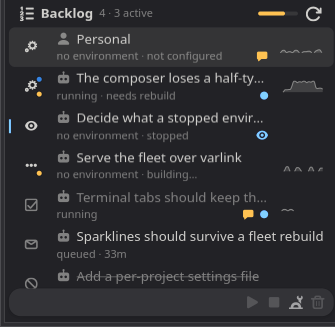
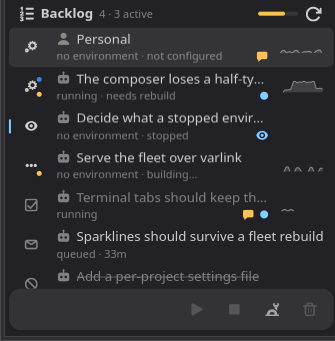
The intervention buttons are ordinary toolbar buttons, and the checkbox belongs to the slot
Three corrections from looking at it (David, 2026-09-09).

**Normal-sized buttons.** They were still wearing the header's
`backlog-new` class — 20px and no padding — which is right for a glyph
tucked into a header line and wrong for a toolbar meant to be pressed.
Square is kept, since four of them together are a toolbar and a row of
circles reads as four separate controls; the size is the platform's now.

**Hover on the slot, not the row.** Pointing anywhere in a row turned its
status glyph into a checkbox, so reading the list made the states flicker
away under the pointer. The target is the 26px slot the glyph sits in,
which is where the gesture was aimed anyway.

**So the resting state is the state.** With nothing checked and nothing
hovered, every row shows its stage glyph and whatever badges it carries.

I broke the CSS string doing this — an unescaped quote inside the one big
Rust literal the stylesheet lives in — and the compiler caught it, which
is the only reason it is worth mentioning: that literal will do it again.

diff --git a/crates/taste-app/src/backlog.rs b/crates/taste-app/src/backlog.rs
@@ -1179,7 +1179,12 @@ impl BacklogPanel {
             let row = intervention_bar.open_bar();
             row.set_halign(gtk::Align::End);
             for button in [&start_button, &stop_button, &rebuild_button, &delete_button] {
+                // Off with the header's styling: `circular` was its shape
+                // and `backlog-new` its 20px-and-no-padding size, which is
+                // right for a glyph tucked into a header line and wrong
+                // for a toolbar meant to be pressed.
                 button.remove_css_class("circular");
+                button.remove_css_class("backlog-new");
                 button.add_css_class("intervention-button");
                 row.append(button);
             }
@@ -2034,7 +2039,14 @@ impl BacklogPanel {
                 panel.sync_actions();
             });
         }
+        let slot = crate::filetree::leading_slot(&slot_stack);
         {
+            // On the SLOT, not the row: pointing anywhere in a row turned
+            // its status glyph into a checkbox, so reading the list made
+            // the states flicker away under the pointer. The target is the
+            // glyph itself — the 26px slot it sits in — which is where the
+            // gesture is aimed anyway (David, 2026-09-09: "you should only
+            // display checkboxes on hover *over the checkboxes*").
             let motion = gtk::EventControllerMotion::new();
             let stack = slot_stack.clone();
             let check = check.clone();
@@ -2045,7 +2057,8 @@ impl BacklogPanel {
             let stack = slot_stack.clone();
             motion.connect_leave(move |_| {
                 // The box stays when this row is checked, and when ANY row
-                // is: the list is either showing boxes or it is not.
+                // is: the list is either showing boxes or it is not. With
+                // neither true the glyph comes back, badges and all.
                 let checking = weak
                     .upgrade()
                     .is_some_and(|panel| !panel.checked.borrow().is_empty());
@@ -2053,10 +2066,10 @@ impl BacklogPanel {
                     stack.set_visible_child_name("status");
                 }
             });
-            box_.add_controller(motion);
+            slot.add_controller(motion);
         }
         self.check_slots.borrow_mut().push(slot_stack.clone());
-        box_.append(&crate::filetree::leading_slot(&slot_stack));
+        box_.append(&slot);
         // Whose row it is, at the title's left: the human's for Personal,
         // an agent's for every issue — and the agent glyph carries what the
         // lock used to say, that the checkout is the agent's and read-only

diff --git a/crates/taste-app/src/main.rs b/crates/taste-app/src/main.rs
@@ -560,11 +560,14 @@ fn main() -> glib::ExitCode {
                     the same way. */\n\
                  .intervention-bar { border-top: 1px solid \
                    alpha(currentColor, 0.12); }\n\
-                 /* Narrow and square, not the header's circles: four of \
-                    them sit together as a toolbar, and a row of circles \
-                    reads as four separate controls. */\n\
+                 /* Square, not the header's circles — four of them sit \
+                    together as a toolbar, and a row of circles reads as \
+                    four separate controls — but otherwise the platform's \
+                    own button: no size override, because a toolbar of \
+                    shrunken buttons reads as a toolbar that does not want \
+                    to be pressed (David, 2026-09-09: \"these should \
+                    be normal-sized toolbar buttons\"). */\n\
                  .intervention-bar button.intervention-button { \
-                   min-width: 26px; min-height: 26px; padding: 0; \
                    border-radius: 6px; }\n\
                  /* The Logs and Ports sections' rows (filetree.rs) share \
                     the backlog's column and wear its exact row geometry, \

diff --git a/docs/ENVIRONMENTS.md b/docs/ENVIRONMENTS.md
@@ -157,14 +157,23 @@ environments needs somewhere else to say so. Checks win over the
 selection whenever there are any — checking is deliberate, while the
 selection moves whenever the user looks at a row.
 
-The bar is one row of narrow square buttons and nothing else — no
-subject line and no close box (David, 2026-09-09). The checks and the
+The bar is one row of ordinary toolbar buttons and nothing else — no
+subject line and no close box (David, 2026-09-09). Square rather than the
+header's circles, because four of them together are a toolbar; otherwise
+the platform's own size, since a row of shrunken buttons reads as one
+that does not want to be pressed. They shed the header's `backlog-new`
+class to get there: 20px and no padding is right for a glyph tucked into
+a header line and wrong for this. The checks and the
 selection are on screen directly above it, so a label restating them
 spends a row of a panel that has none to spare, and unchecking is how the
 bar goes away.
 
 The glyph and the box share a `GtkStack` sized to the wider of them, so
-the title beside them does not move when the pointer arrives. **Checking
+the title beside them does not move when the pointer arrives — and the
+hover that swaps them is on the **slot**, not the row: pointing anywhere
+in a row turned its status glyph into a checkbox, so reading the list
+made the states flicker away under the pointer. With nothing checked and
+nothing hovered, every row shows its stage glyph and its badges. **Checking
 one row shows the boxes on all of them**: the list is either in a
 checking mood or it is not, and a half-checked list that showed a box
 only where it was checked made the other rows read as unavailable. A button is
